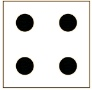
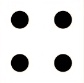
add images for dice to replace numbers

diff --git a/js/scripts.js b/js/scripts.js
@@ -32,6 +32,7 @@ Dice.prototype.roll = function() {
 
 function computerPlay (player) {
 
+
 }
 
 function showInfo(totalScore1, totalScore2, turnScore1, turnScore2, diceSide1, diceSide2) {
@@ -39,24 +40,24 @@ function showInfo(totalScore1, totalScore2, turnScore1, turnScore2, diceSide1, d
   $("div#total-score-2").text(totalScore2);
   $("div#turn-score-1").text(turnScore1);
   $("div#turn-score-2").text(turnScore2);
-  $("div#dice1").css("background-image", "url('one.jpeg')");
-  $("div#dice2").css("background-image", chooseDiceImage(diceSide2));
+  $("div#dice1").html(chooseDiceImage(diceSide1));
+  $("div#dice2").html(chooseDiceImage(diceSide2));
 }
 
 function chooseDiceImage (side) {
   switch (side) {
     case (1):
-      return "url('one.jpeg')";
+      return '<div class="first-face"><span class="pip"></span></div>';
     case (2):
-      return "url('two.jpeg')";
+      return '<div class="second-face"><span class="pip"></span><span class="pip"></span></div>';
     case (3):
-      return "url('three.jpeg')";
+      return '<div class="third-face"><span class="pip"></span><span class="pip"></span><span class="pip"></span></div>';
     case (4):
-      return "url('four.jpeg')";
+      return '<div class="fourth-face"><div class="column"><span class="pip"></span><span class="pip"></span></div><div class="column"><span class="pip"></span><span class="pip"></span></div></div>';
     case (5):
-      return "url('five.jpeg')";
+      return '<div class="fifth-face"><div class="column"><span class="pip"></span><span class="pip"></span></div><div class="column"><span class="pip"></span></div><div class="column"><span class="pip"></span><span class="pip"></span></div></div>';
     case (6):
-      return "url('six.jpeg)";   
+      return '<div class="sixth-face"><div class="column"><span class="pip"></span><span class="pip"></span><span class="pip"></span></div><div class="column"><span class="pip"></span><span class="pip"></span><span class="pip"></span></div></div>';   
   }
 }
 
@@ -64,6 +65,7 @@ function buttonRollDice (btnPlay1, btnPlay2, btnHold, player, dice1, dice2) {
   player.play(dice1);
   player.play(dice2);
   if (dice1.side === 1 || dice2.side === 1) {
+    player.scoreTemp = 0;
     $(btnPlay1).hide();
     $(btnHold).hide();
     $(btnPlay2).show();
@@ -82,10 +84,10 @@ function buttonHold (btnPlay1, btnPlay2, btnHold, player) {
 
 function gameStop(total1, total2, player1, player2) {
   if (total1 >= 20) {
-    $("div.row").html("<p class='win'> Player 1 Wins!!! </p>" + "<p>Player1 Score: " + total1 + "</p><p>Player2 Score: " + player2.scoreTotal + "</p>"
+    $("div.row").html("<p class='win'> Player 1 Wins!!! </p>" + "<p class='result'>Player 1 Score: <strong>" + total1 + "</strong></p><p class='result'>Player 2 Score: <strong>" + player2.scoreTotal + "</strong></p>"
     + "<button id='reset' class='btn'>Start new Game</button>");
   } else if (total2 >= 20) {
-    $("div.row").html("<p class='win'> Player 2 Wins!!! </p>" + "<p>Player1 Score: " + player1.scoreTotal + "</p><p>Player2 Score: " + total2 + "</p>"
+    $("div.row").html("<p class='win'> Player 2 Wins!!! </p>" + "<p class='result'>Player 1 Score: <strong>" + player1.scoreTotal + "</strong></p><p class='result'>Player 2 Score: <strong>" + total2 + "</strong></p>"
     + "<button id='reset' class='btn'>Start new Game</button>");
   }
 }

diff --git a/css/styles.css b/css/styles.css
@@ -24,8 +24,8 @@ h3 {
 }
 
 #total-score-1, #dice1, #dice2, #total-score-2, #turn-score-1, #turn-score-2{
-  width: 100px;
-  height: 100px;
+  width: 120px;
+  height: 120px;
   font-size: 80px;
   text-align: center;
   margin: auto;
@@ -49,11 +49,108 @@ h1{
   font-weight: bold;
 }
 
+img {
+  width: 100px;
+  height: 100px;
+  background-size: cover;
+}
+
 .win{
   font-size: 50px;
   margin-top: 30px;
+  color: #ff33cc;
 }
 
-.column {
-  margin-top: 30px;
+.result{
+  font-size: 25px;
+}
+
+
+/* Dice styles */
+
+.first-face {
+  display: flex;
+  justify-content: center;
+  align-items: center;
+}
+
+.second-face {
+  display: flex;
+  justify-content: space-between;
+}
+
+.second-face .pip:nth-of-type(2) {
+  align-self: flex-end;
+}
+
+.third-face {
+  display: flex;
+  justify-content: space-between;
+}
+  
+.third-face .pip:nth-of-type(2) {
+  align-self: center;
+}
+
+.third-face .pip:nth-of-type(3) {
+  align-self: flex-end;
+}
+
+.fourth-face, .sixth-face {
+  display: flex;
+  justify-content: space-between;
+}
+
+.fourth-face .column, .sixth-face .column {
+  display: flex;
+  flex-direction: column;
+  justify-content: space-between;
+}
+
+.fifth-face {
+  display: flex;
+  justify-content: space-between;
+}
+  
+.fifth-face .column {
+  display: flex;
+  flex-direction: column;
+  justify-content: space-between;
+}
+  
+.fifth-face .column:nth-of-type(2) {
+  justify-content: center;
+}
+
+* {
+  box-sizing: border-box;
+}
+
+[class$="face"] {
+  margin: 16px;
+  padding: 4px;
+  
+  background-color: #e7e7e7;
+  width: 104px;
+  height: 104px;
+  object-fit: contain;
+  
+  box-shadow:
+    inset 0 5px white, 
+    inset 0 -5px #bbb,
+    inset 5px 0 #d7d7d7, 
+    inset -5px 0 #d7d7d7;
+  
+  border-radius: 10%;
+}
+
+.pip {
+  display: block;
+  width: 24px;
+  height: 24px;
+  border-radius: 50%;
+  margin: 4px;
+
+  background-color: #333;
+  box-shadow: inset 0 3px #111, inset 0 -3px #555;
 }

diff --git a/index.html b/index.html
@@ -18,7 +18,7 @@
     <button type="button" id="start" class="btn">Start New Game</button>  
     <div class="row">
       <div id="wrapper"></div>
-      <div class="col-md-4 column">
+      <div class="col-md-4 player-column">
         <h3>Player 1</h3>
         <p>Total Score:</p>
         <div id="total-score-1" class="show"></div>
@@ -27,14 +27,14 @@
         <button type="button" id="play1" class="btn">Roll Dice</button>
         <button type="button" id="hold1" class="btn">Hold</button>
       </div>
-      <div class="col-md-4 column">
+      <div class="col-md-4 player-column">
         <h3>Dice</h3>
         <p>Dice 1</p>
         <div id="dice1" class="show"></div>
         <p>Dice 2</p>
         <div id="dice2" class="show"></div>
       </div>
-      <div class="col-md-4 column">
+      <div class="col-md-4 player-column">
         <h3>Player 2</h3>
         <p>Total Score:</p>
         <div id="total-score-2" class="show"></div>
